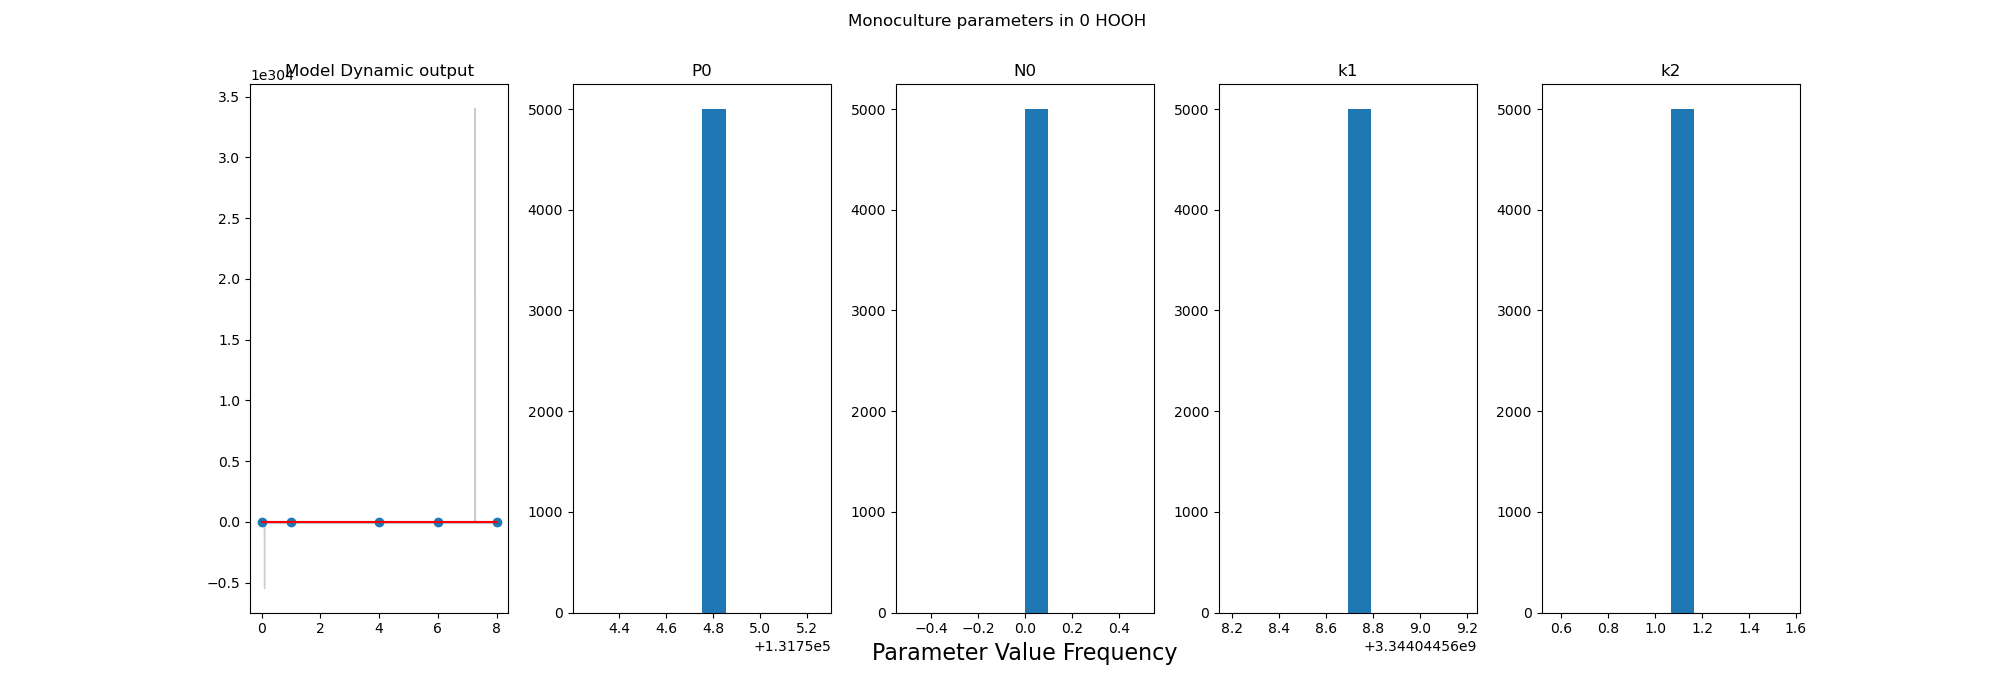
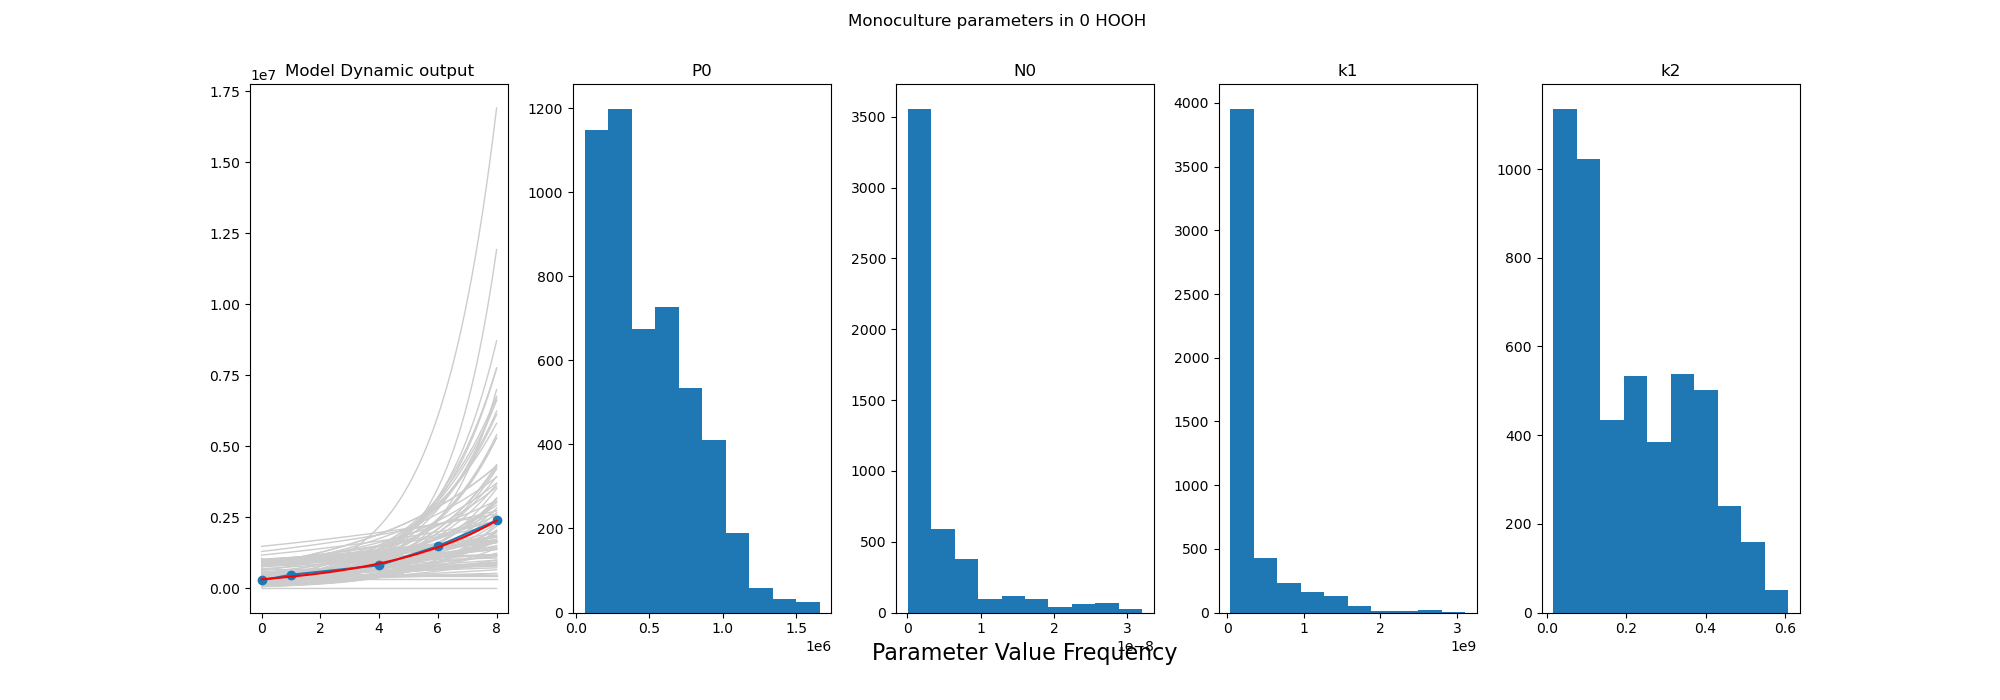
means are inits now

diff --git a/src/model_pro_batch.py b/src/model_pro_batch.py
@@ -129,8 +129,8 @@ N0_prior=ODElib.parameter(stats_gen=scipy.stats.lognorm, hyperparameters={'s':pw
 #pw/10 for state variable initial conditions (P0, H0, N0) bc we theoretically have a better handle on thier values. (not completely holding constant like Qnp but not as loose as params either)
 
 #still not sure what part of fitting algor this is used for
-P0_mean = 50000
-N0_mean = 900000
+P0_mean = inits0['P0'][0]
+N0_mean = inits0['N0'][0]
 
 #####################################################
 #functions  for modeling and graphing model uncertainty 

diff --git a/src/model_spiked_pro_batch.py b/src/model_spiked_pro_batch.py
@@ -118,7 +118,7 @@ plt.legend()
 inits4 = pd.read_csv("../data/inits/pro9215_inits4.csv")
 
 #setting how many MCMC chains you will run 
-nits = 10000 # nits - INCREASE FOR MORE BELL CURVEY LOOKING HISTS of params
+nits = 1000 # nits - INCREASE FOR MORE BELL CURVEY LOOKING HISTS of params
 
 # state variable names
 snames = ['P','N','H'] #order must match all further model mentions (same fro params) 
